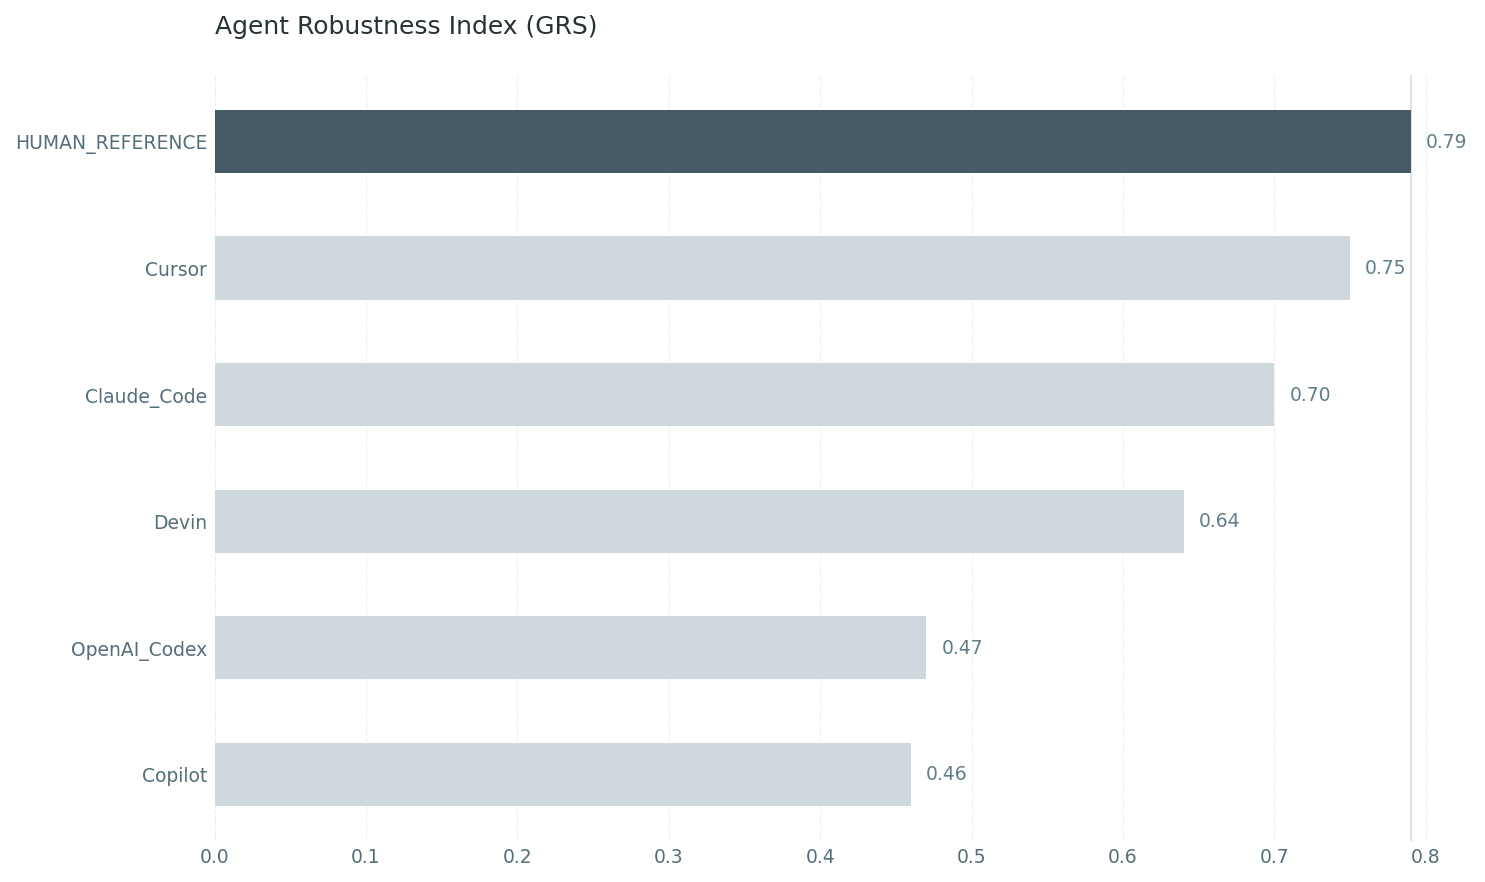
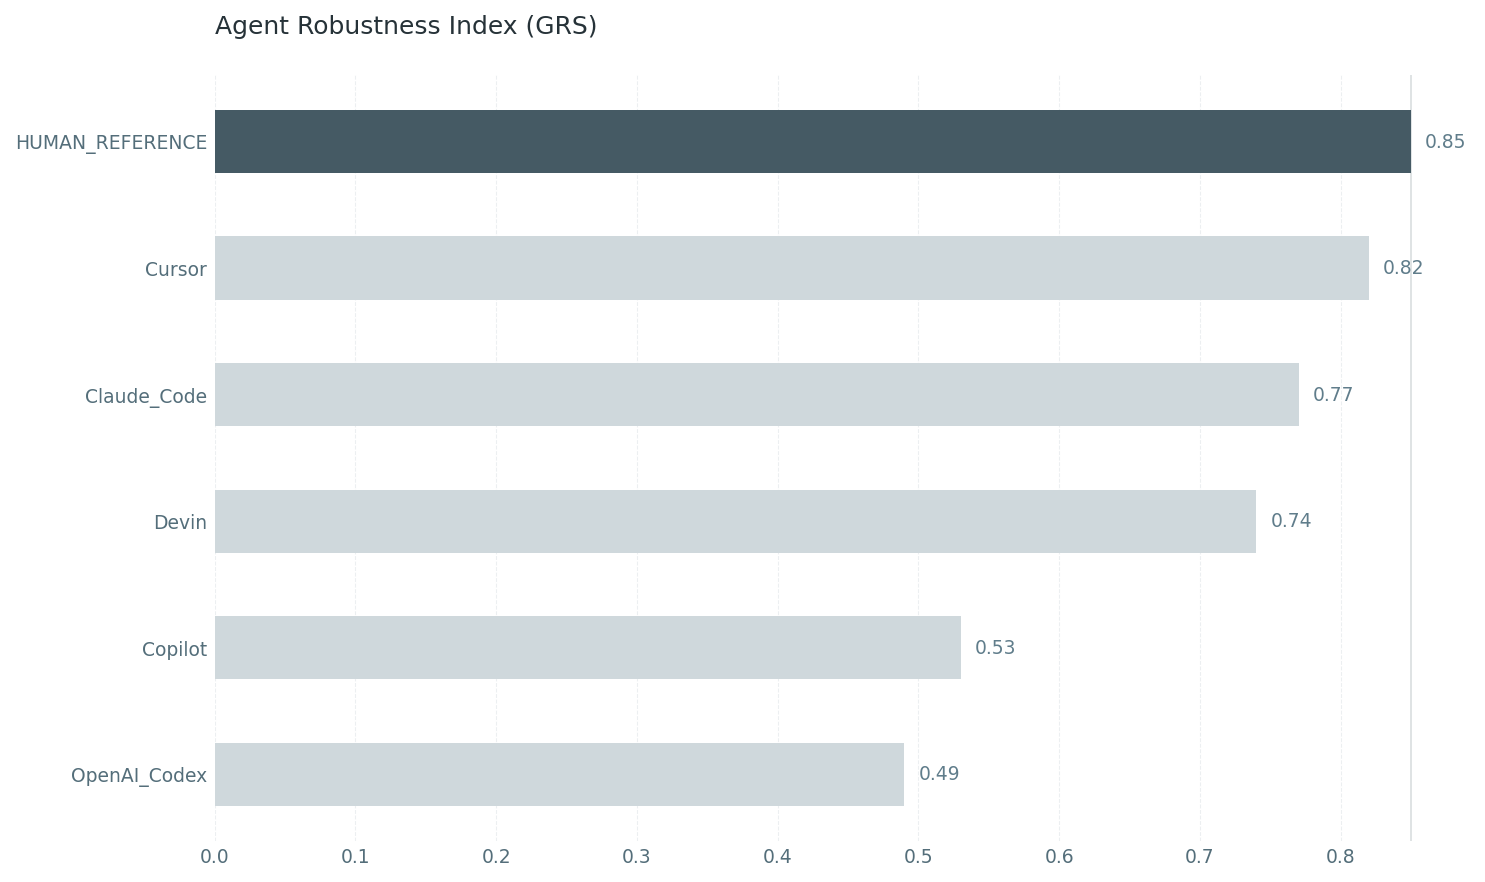
fix - Calcolo delle metriche fixato - uso riferimenti globali per poter paragonare valori su tabelle diverse. - aggiunta di acceptance rate e tempo mediano nei report.

diff --git a/analysis/metrics.py b/analysis/metrics.py
@@ -67,7 +67,12 @@ def get_failed_pr_ids(df, join_keys, file_map, tolerance_hours=72):
     return candidates[candidates['has_overlap'] == True]['id_t'].unique()
 
 # --- 3. CORE ANALYTICS ---
-def finalize_report(df, grouping_cols):
+def finalize_report(df, grouping_cols, global_stats=None, return_raw=False):
+    """
+    Esegue l'aggregazione e il calcolo delle metriche di qualità.
+    Se return_raw=True, restituisce i valori di instabilità non normalizzati.
+    """
+    # Aggregazione iniziale
     res = df.groupby(grouping_cols).agg({
         'merged_at': lambda x: x.notna().mean(),
         'time_hrs': ['median', 'mean'],
@@ -80,44 +85,46 @@ def finalize_report(df, grouping_cols):
         'id': 'count'
     }).reset_index()
 
+    # Appiattimento colonne
     res.columns = grouping_cols + ['acc_rate', 't_med', 't_mean', 'SFI', 'ACE', 'ASI', 'PCD', 'f_med', 'f_avg', 'SCR', 'sample']
 
-    # 1. Indicatori Instabilità (Z-Score robusto)
-    res['i_struct'] = np.log1p(res['f_avg'] / (res['f_med'] + 0.001))
-    res['i_proc'] = np.log1p(res['t_mean'] / (res['t_med'] + 0.001))
+    # 1. Calcolo instabilità logaritmica (valori grezzi)
+    # Queste colonne servono per calcolare la media/std globale
+    res['i_struct_raw'] = np.log1p(res['f_avg'] / (res['f_med'] + 0.001))
+    res['i_proc_raw'] = np.log1p(res['t_mean'] / (res['t_med'] + 0.001))
 
+    # Se stiamo solo estraendo i riferimenti globali, ci fermiamo qui
+    if return_raw:
+        return res
+
+    # 2. Normalizzazione (Z-Score)
     for c in ['i_struct', 'i_proc']:
-        res[c] = (res[c] - res[c].mean()) / (res[c].std() + 1e-6)
+        raw_col = f"{c}_raw"
+        if global_stats and f"{c}_mean" in global_stats:
+            # ANCORAGGIO GLOBALE: usa parametri passati dall'esterno
+            mu = global_stats[f"{c}_mean"]
+            sigma = global_stats[f"{c}_std"]
+            res[c] = (res[raw_col] - mu) / (sigma + 1e-6)
+        else:
+            # NORMALIZZAZIONE LOCALE: usa i dati del gruppo corrente
+            res[c] = (res[raw_col] - res[raw_col].mean()) / (res[raw_col].std() + 1e-6)
 
-    # 2. Metriche Avanzate
+    # 3. Metriche Avanzate e Sintetiche
     res['CDI'] = np.sqrt(np.square(res['i_struct']) + np.square(res['i_proc']))
-    res['GRS'] = 1 / (1 + res['SCR'] * 2.5 + res['CDI'] * 0.4) # Peso aumentato a SCR
+    res['GRS'] = 1 / (1 + res['SCR'] * 2.5 + res['CDI'] * 0.4)
     res['ASR'] = (res['acc_rate'] * (1 - res['SCR'])) / (np.log1p(res['t_med']) + 1)
 
-    # 3. Rating
+    # 4. Rating System
     def get_rating(row):
-        # CRITICAL: Fallimento alto o caos strutturale
-        if row['SCR'] > 0.18 or row['CDI'] > 2.8:
-            return 'E-CRITICAL'
-
-        # EXCELLENT: Elite performance
-        if row['GRS'] > 0.75 and row['SCR'] < 0.07 and row['CDI'] < 1.1:
-            return 'A-EXCELLENT'
-
-        # GOOD: Affidabile e solido
-        if row['GRS'] > 0.60 and row['SCR'] < 0.12 and row['CDI'] < 1.6:
-            return 'B-GOOD'
-
-        # AVERAGE: Accettabile ma migliorabile
-        if row['GRS'] > 0.45 and row['CDI'] < 2.2:
-            return 'C-AVERAGE'
-
-        # RISKY: Instabile o tendente all'errore
+        if row['SCR'] > 0.18 or row['CDI'] > 2.8: return 'E-CRITICAL'
+        if row['GRS'] > 0.75 and row['SCR'] < 0.07 and row['CDI'] < 1.1: return 'A-EXCELLENT'
+        if row['GRS'] > 0.60 and row['SCR'] < 0.12 and row['CDI'] < 1.6: return 'B-GOOD'
+        if row['GRS'] > 0.45 and row['CDI'] < 2.2: return 'C-AVERAGE'
         return 'D-RISKY'
 
     res['Rating'] = res.apply(get_rating, axis=1)
 
-    final_cols = grouping_cols + ['Rating', 'GRS', 'CDI', 'SCR', 'ASR', 'SFI', 'ACE', 'ASI', 'PCD', 'sample']
+    final_cols = grouping_cols + ['Rating', 'GRS', 'CDI', 'SCR', 'ASR', 'SFI', 'ACE', 'ASI', 'PCD', 'sample', 'acc_rate', 't_med']
     return res[final_cols].sort_values(by='GRS', ascending=False).round(2)
 
 # --- 4. VISUALIZZAZIONE ---
@@ -188,9 +195,20 @@ def main():
     df['PCD_pr'] = (df['additions'] + df['deletions']) / f_safe
     df['SFI_pr'] = df.get('n_comments', 0) / f_safe
 
+    # --- 3. CALCOLO RIFERIMENTI GLOBALI ---
+    # Chiamiamo finalize_report senza global_stats per ottenere i valori medi del dataset
+    full_view = finalize_report(df, ['agent', 'type'], return_raw=True)
+
+    stats_rif = {
+        'i_struct_mean': full_view['i_struct_raw'].mean(),
+        'i_struct_std': full_view['i_struct_raw'].std(),
+        'i_proc_mean': full_view['i_proc_raw'].mean(),
+        'i_proc_std': full_view['i_proc_raw'].std()
+    }
+
     # 3. Report Agenti con Baseline Umana fissa in cima
     print("📊 Generazione Report...")
-    agent_report = finalize_report(df, ['agent'])
+    agent_report = finalize_report(df, ['agent'], global_stats=stats_rif)
 
     # Identificazione e rinomina Human
     is_human = agent_report['agent'].str.contains('human', case=False)
@@ -207,9 +225,17 @@ def main():
     save_comparison_plot(final_agent_report, FIGS_DIR / "GRS_COMPARISON.png")
 
     # 4. Global & Appendix
-    full_report = finalize_report(df, ['type', 'agent'])
+    full_report = finalize_report(df, ['type', 'agent'], global_stats=stats_rif)
     full_report[full_report['sample'] >= MIN_SAMPLE_SIZE].to_csv(REPORTS_DIR / "REPORT_GLOBAL.csv", index=False)
     full_report[full_report['sample'] < MIN_SAMPLE_SIZE].to_csv(REPORTS_DIR / "REPORT_APPENDIX.csv", index=False)
+
+    # Report Meso: Solo Umani (per tipo)
+    report_type_human = finalize_report(df[df['agent'] == 'Human'], ['type'], global_stats=stats_rif)
+    report_type_human.to_csv(REPORTS_DIR / "REPORT_TYPE_HUMAN.csv", index=False)
+
+    # Report Meso: Solo AI Aggregati (per tipo)
+    report_type_ai = finalize_report(df[df['agent'] != 'Human'], ['type'], global_stats=stats_rif)
+    report_type_ai.to_csv(REPORTS_DIR / "REPORT_TYPE_AI.csv", index=False)
 
     print(f"✅ Completato. Fallimenti SCR: {df['failed_scr'].sum()}. Grafico salvato.")
 
